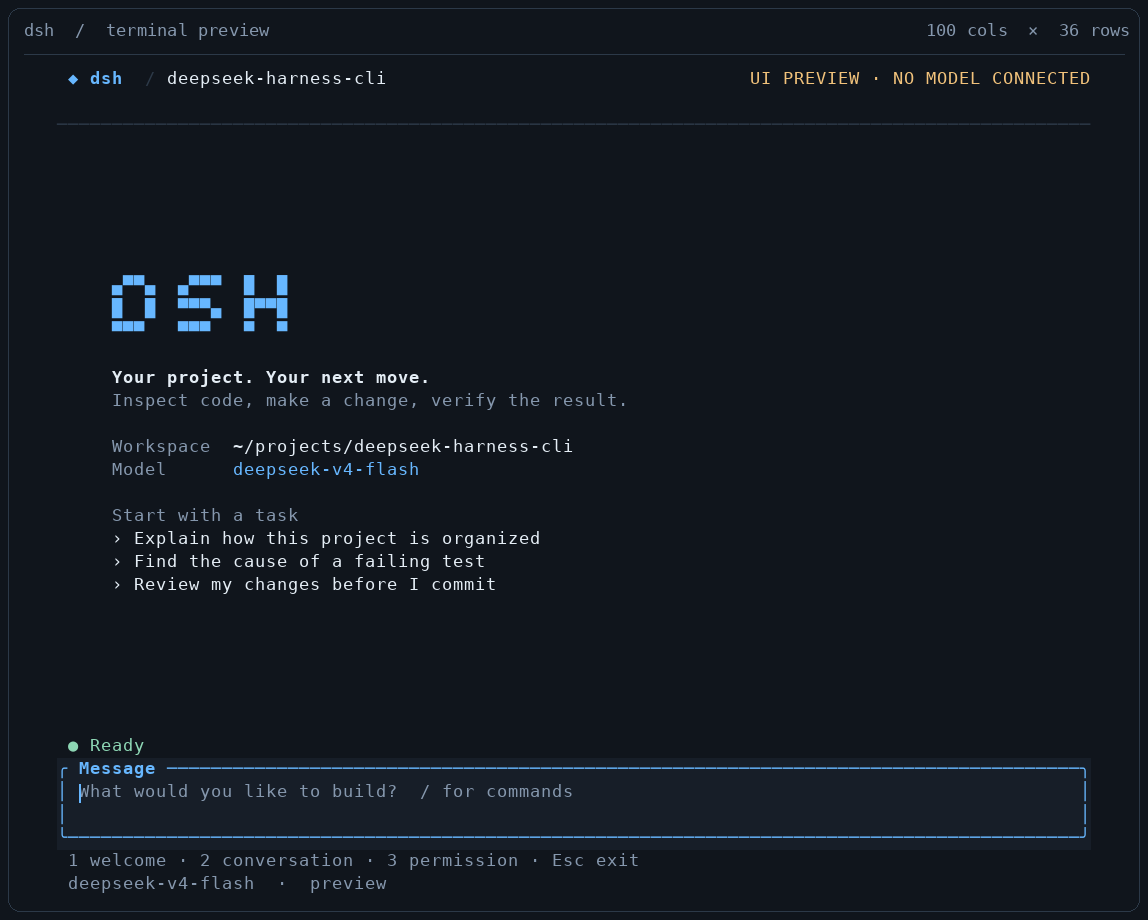
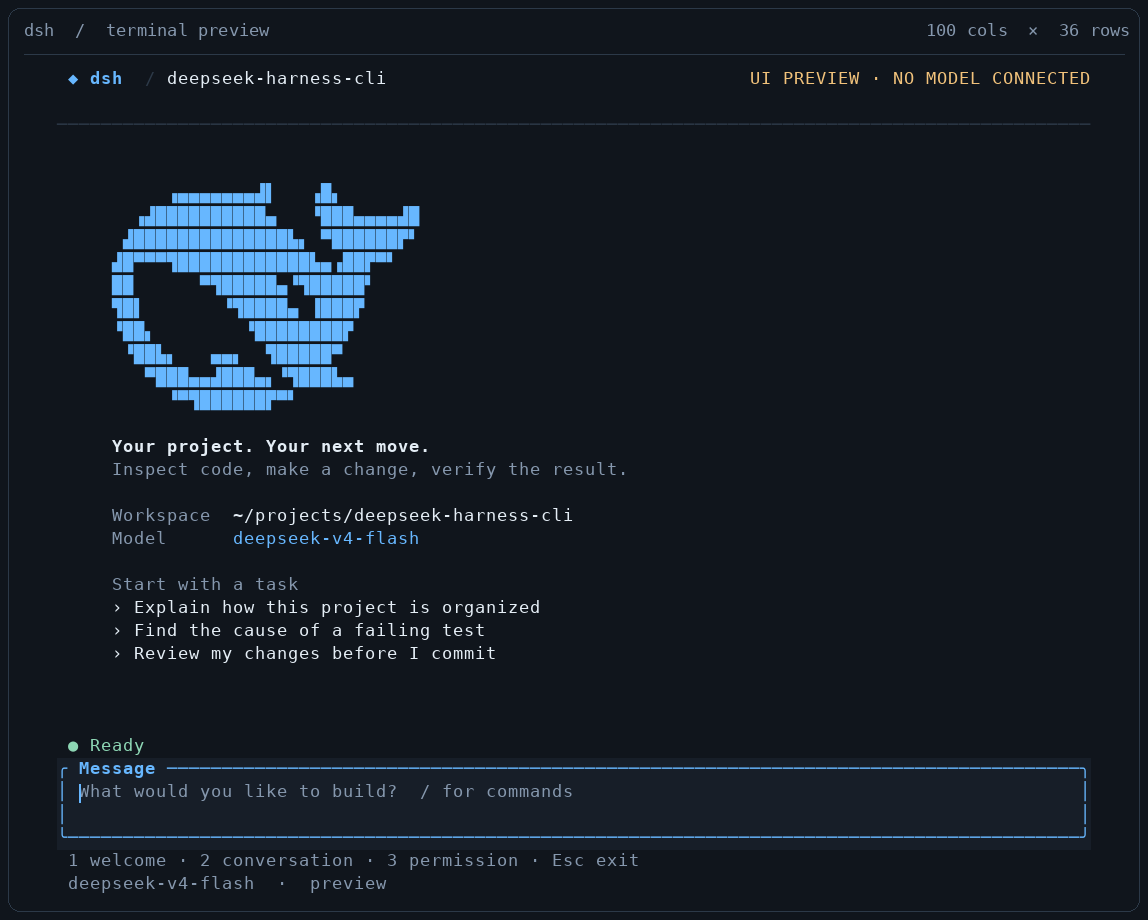
feat(cli): welcome users with the DeepSeek whale

diff --git a/native/cli/src/ui.rs b/native/cli/src/ui.rs
@@ -19,6 +19,29 @@ const GREEN: Color = Color::Rgb(141, 214, 180);
 const AMBER: Color = Color::Rgb(241, 194, 123);
 const RED: Color = Color::Rgb(245, 143, 143);
 
+// Terminal renditions of the DeepSeek whale in apps/web/public/favicon.svg.
+const WHALE: &[&str] = &[
+    "     ▗▄▄▄▄▄▄▄▟▌   ▗█▖",
+    "  ▗▟██████████▄   ▝███▄▄▄▄▟█",
+    " ▟██████████████▙▖ ▀██████▛▘",
+    "▟█▀▀▀▜████████████▙▄▗██▛▀▘",
+    "██      ▀▜█████▄▝▜█████▘",
+    "▜█▌       ▝▜████▄ ▐███▛",
+    "▝██▖        ▝████████▛",
+    " ▝██▙▖   ▄▄▖  ▜█████▀",
+    "   ▀███▄▄▟███▄▖▝▜███▙▄",
+    "     ▝▀▜██████▛▀▘",
+];
+const WHALE_COMPACT: &[&str] = &[
+    "   ▄▄▄▄▄▄█▘  ▐▙▖   ▄",
+    " ▟█████████▄ ▝█████▛",
+    "▟▛▀▀▀████████▄▄██▀",
+    "█▌    ▝▀███▌▝███▌",
+    "▐█▖     ▝▜█████▛",
+    " ▀█▙▄ ▐▙▄ ▀███▌",
+    "   ▀▀██████▀▀▀▀▘",
+];
+
 pub const COMMANDS: &[(&str, &str)] = &[
     ("/help", "Keyboard shortcuts and commands"),
     ("/session", "Session identity and resume command"),
@@ -627,40 +650,64 @@ fn header(frame: &mut Screen<'_>, app: &App, area: Rect) {
 }
 
 fn welcome(frame: &mut Screen<'_>, app: &App, area: Rect) {
-    let top = area.y + area.height.saturating_sub(14) / 2;
-    let mut lines = vec![
-        Line::from(bold("     ▄▀▀▄  ▄▀▀▀  █  █", BLUE)),
-        Line::from(bold("     █  █  ▀▀▀▄  █▀▀█", BLUE)),
-        Line::from(bold("     ▀▀▀   ▀▀▀   ▀  ▀", BLUE)),
-        Line::default(),
-        Line::from(bold("     Your project. Your next move.", TEXT)),
-        Line::from(span(
-            "     Inspect code, make a change, verify the result.",
+    let roomy = area.height >= 21 && area.width >= 40;
+    let padding = if area.width >= 60 { "     " } else { " " };
+    let whale = if roomy { WHALE } else { WHALE_COMPACT };
+    let mut lines = Vec::new();
+    if area.height >= 11 {
+        lines.extend(
+            whale
+                .iter()
+                .map(|line| Line::from(bold(format!("{padding}{line}"), BLUE))),
+        );
+        lines.push(Line::default());
+    }
+    lines.push(Line::from(bold(
+        format!("{padding}Your project. Your next move."),
+        TEXT,
+    )));
+    if roomy {
+        lines.push(Line::from(span(
+            format!("{padding}Inspect code, make a change, verify the result."),
             MUTED,
-        )),
-        Line::default(),
-        Line::from(vec![span("     Workspace  ", MUTED), span(&app.cwd, TEXT)]),
-    ];
+        )));
+        lines.push(Line::default());
+    }
+    lines.push(Line::from(vec![
+        span(format!("{padding}Workspace  "), MUTED),
+        span(&app.cwd, TEXT),
+    ]));
     if !app.model.is_empty() {
         lines.push(Line::from(vec![
-            span("     Model      ", MUTED),
+            span(format!("{padding}Model      "), MUTED),
             span(&app.model, BLUE),
         ]));
     }
-    lines.extend([
-        Line::default(),
-        Line::from(span("     Start with a task", MUTED)),
-        Line::from(span("     › Explain how this project is organized", TEXT)),
-        Line::from(span("     › Find the cause of a failing test", TEXT)),
-        Line::from(span("     › Review my changes before I commit", TEXT)),
-    ]);
-    if area.width < 60 {
-        for line in &mut lines {
-            for span in &mut line.spans {
-                span.content = span.content.trim_start().to_owned().into();
-            }
-        }
+    if roomy {
+        lines.extend([
+            Line::default(),
+            Line::from(span(format!("{padding}Start with a task"), MUTED)),
+            Line::from(span(
+                format!("{padding}› Explain how this project is organized"),
+                TEXT,
+            )),
+            Line::from(span(
+                format!("{padding}› Find the cause of a failing test"),
+                TEXT,
+            )),
+            Line::from(span(
+                format!("{padding}› Review my changes before I commit"),
+                TEXT,
+            )),
+        ]);
+    } else if area.height >= 14 {
+        lines.push(Line::default());
+        lines.push(Line::from(span(
+            format!("{padding}/ commands · F1 help"),
+            MUTED,
+        )));
     }
+    let top = area.y + area.height.saturating_sub(lines.len() as u16) / 2;
     frame.render_widget(
         Paragraph::new(lines).wrap(Wrap { trim: false }),
         Rect::new(area.x, top, area.width, area.bottom().saturating_sub(top)),
